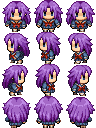
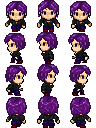
Added shopkeeper and redid Lini sprites

diff --git a/mists-game/src/main/java/com/nkoiv/mists/game/libraries/premade/Village.java b/mists-game/src/main/java/com/nkoiv/mists/game/libraries/premade/Village.java
@@ -32,7 +32,7 @@ public class Village {
         villageTemplate.map = new TileMap("/mapdata/villagetest.map");
         
         addRoofs(villageTemplate);
-        
+        generateNPCs(villageTemplate);
         return villageTemplate;
     }
     
@@ -59,8 +59,11 @@ public class Village {
      * @param villageTemplate the village to generate the NPCs on
      */
     private static void generateNPCs(LocationTemplate villageTemplate) {
-        Creature villageElder = Mists.creatureLibrary.create("VillageElder");
-        villageElder.setCurrentDialogue(Mists.dialogueLibrary.getDialogue(10));
+        Creature villageShopkeeper = Mists.creatureLibrary.create("VillageShopkeeper");
+        villageShopkeeper.setCurrentDialogue(Mists.dialogueLibrary.getDialogue(10));
+        
+        villageShopkeeper.setPosition(44*Mists.TILESIZE, 14*Mists.TILESIZE);
+        villageTemplate.mobs.add(villageShopkeeper);
     }
     
 }

diff --git a/mists-game/src/test/java/LocationTests/MapGeneratorTest.java b/mists-game/src/test/java/LocationTests/MapGeneratorTest.java
@@ -19,7 +19,6 @@ import org.junit.AfterClass;
 import org.junit.Before;
 import org.junit.BeforeClass;
 import org.junit.Test;
-import static org.junit.Assert.*;
 import org.junit.Rule;
 
 /**
